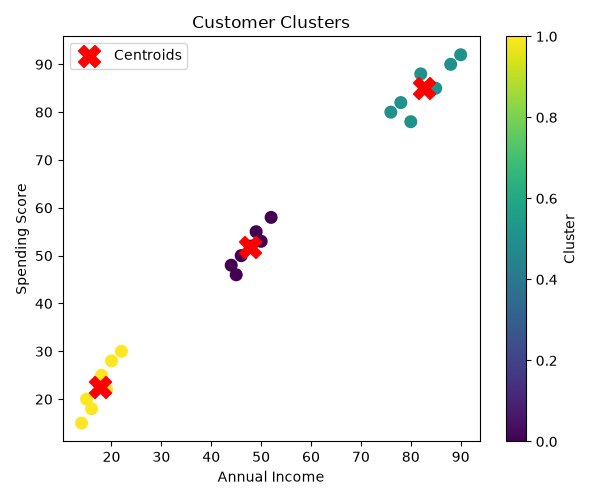
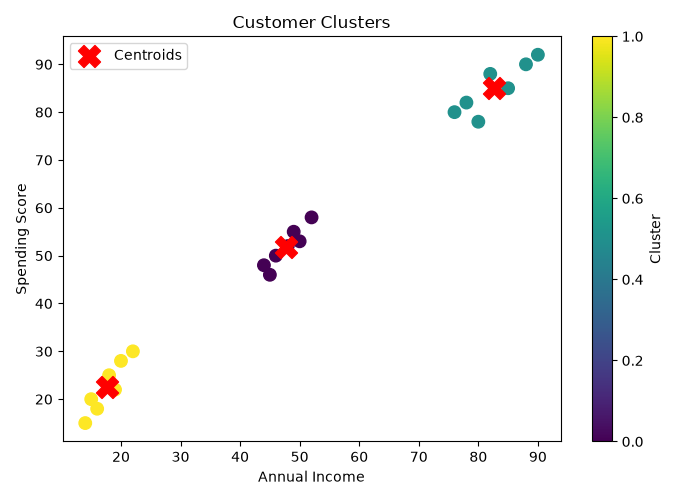
Update Day 15 assignment

diff --git a/assignments/day-15/submissions/batch-a/Nitin/solution.py b/assignments/day-15/submissions/batch-a/Nitin/solution.py
@@ -5,7 +5,9 @@ import pandas as pd
 from sklearn.cluster import KMeans
 from sklearn.metrics import silhouette_score
 
+# -------------------------------
 # Dataset
+# -------------------------------
 customer_data = {
     "customer_id": list(range(1, 22)),
     "annual_income": [
@@ -20,7 +22,9 @@ customer_data = {
     ],
 }
 
+# -------------------------------
 # Question 1
+# -------------------------------
 df = pd.DataFrame(customer_data)
 
 print("First Five Rows:")
@@ -29,66 +33,82 @@ print(df.head())
 print("\nShape:", df.shape)
 
 print("\nColumns:")
-print(df.columns)
+print(df.columns.tolist())
 
 print("\nMissing Values:")
 print(df.isnull().sum())
 
+# -------------------------------
 # Question 2
-# customer_id is only an identifier and should not be used for clustering.
+# -------------------------------
 X = df[["annual_income", "spending_score"]]
 
-print("\nFeatures:")
+print("\nSelected Features:")
 print(X.head())
 
+# customer_id is only an identifier and should not be used for clustering.
+
+# -------------------------------
 # Question 3
+# -------------------------------
 inertias = []
 
-print("\nElbow Method")
+print("\nElbow Method:")
+
 for k in range(1, 8):
-    km = KMeans(n_clusters=k, random_state=42, n_init=10)
-    km.fit(X)
-    inertias.append(km.inertia_)
-    print(f"k={k} Inertia={km.inertia_:.2f}")
+    model = KMeans(n_clusters=k, random_state=42, n_init=10)
+    model.fit(X)
+    inertias.append(model.inertia_)
+    print(f"k={k} Inertia={model.inertia_:.2f}")
 
 plt.figure(figsize=(6,4))
-plt.plot(range(1,8), inertias, marker="o")
+plt.plot(range(1,8), inertias, marker='o')
 plt.title("Elbow Method")
-plt.xlabel("Number of Clusters")
+plt.xlabel("Number of Clusters (k)")
 plt.ylabel("Inertia")
 plt.grid(True)
 plt.tight_layout()
 plt.savefig("elbow_curve.png")
 plt.close()
 
+# -------------------------------
 # Question 4
+# -------------------------------
 model = KMeans(n_clusters=3, random_state=42, n_init=10)
+
 df["cluster"] = model.fit_predict(X)
 
-print("\nClustered Data:")
+print("\nComplete DataFrame:")
 print(df)
 
-print("\nCustomers in each Cluster:")
+print("\nCustomers in each cluster:")
 print(df["cluster"].value_counts())
 
-# Cluster numbers are identifiers, not rankings.
+# Cluster labels (0,1,2) are identifiers, not rankings.
 
+# -------------------------------
 # Question 5
+# -------------------------------
 centroids = model.cluster_centers_
 
-print("\nCentroids")
-for i, c in enumerate(centroids):
-    print(f"Cluster {i}: Income={c[0]:.2f}, Spending={c[1]:.2f}")
+print("\nCentroids:")
 
+for i, c in enumerate(centroids):
+    print(
+        f"Cluster {i}: Income = {c[0]:.2f}, Spending = {c[1]:.2f}"
+    )
+
+# -------------------------------
 # Question 6
-plt.figure(figsize=(6,5))
+# -------------------------------
+plt.figure(figsize=(7,5))
 
 plt.scatter(
     df["annual_income"],
     df["spending_score"],
     c=df["cluster"],
     cmap="viridis",
-    s=70
+    s=80,
 )
 
 plt.scatter(
@@ -110,36 +130,52 @@ plt.tight_layout()
 plt.savefig("customer_clusters.png")
 plt.close()
 
+# -------------------------------
 # Question 7
+# -------------------------------
 score = silhouette_score(X, df["cluster"])
 
-print(f"\nSilhouette Score: {score:.3f}")
+print("\nSilhouette Score:", round(score,3))
 
 # Higher silhouette score means better separated clusters.
 
+# -------------------------------
 # Question 8
+# -------------------------------
 summary = df.groupby("cluster")[["annual_income","spending_score"]].mean()
 
-print("\nCluster Summary")
+print("\nCluster Summary:")
 print(summary)
 
 highest_spending = summary["spending_score"].idxmax()
 highest_income = summary["annual_income"].idxmax()
 lowest_spending = summary["spending_score"].idxmin()
 
-print(f"\nHighest Spending Cluster: {highest_spending}")
+print("\nBusiness Insights")
+
+print(
+    f"Highest Spending Cluster: {highest_spending}"
+)
 print("Reason: Customers spend the most.")
 
-print(f"\nHighest Income Cluster: {highest_income}")
+print(
+    f"Highest Income Cluster: {highest_income}"
+)
 print("Reason: Customers have the highest income.")
 
-print(f"\nDiscount Offer Cluster: {lowest_spending}")
-print("Reason: Lower spending customers can be encouraged with discounts.")
+print(
+    f"Discount Offers Cluster: {lowest_spending}"
+)
+print("Reason: Lower spending customers can be attracted with discounts.")
 
-print(f"\nPremium Membership Cluster: {highest_spending}")
-print("Reason: High spending customers are suitable for premium membership.")
+print(
+    f"Premium Membership Cluster: {highest_income}"
+)
+print("Reason: High income customers are ideal for premium membership.")
 
+# -------------------------------
 # Question 9
+# -------------------------------
 joblib.dump(model, "kmeans_model.pkl")
 
 print("\nModel saved as kmeans_model.pkl")
